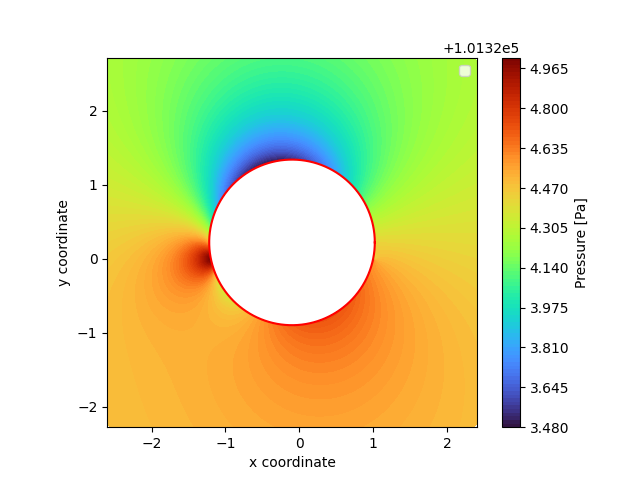
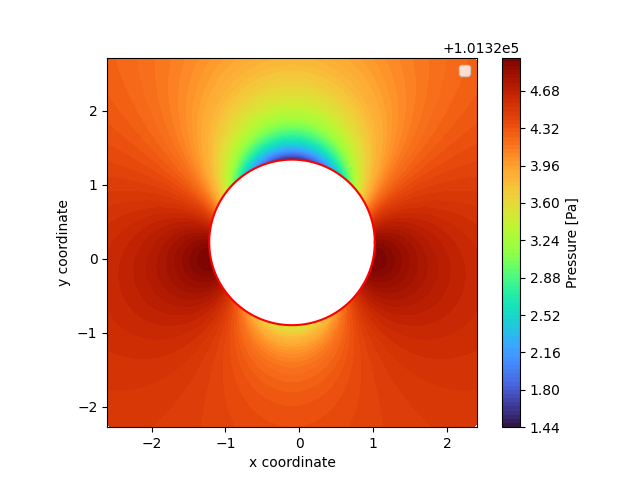
fixe bug in generating cylinder pressure plot

diff --git a/python/project 1/premade_figures.py b/python/project 1/premade_figures.py
@@ -26,7 +26,7 @@ U = 1
 #plotter(plotter_function(1, a, correct_gamma), joukowski=True, draw_shape=True, fig_limit=0.3, fig_offset=[2.1, -0.2], contours=800, save=True, filename=f'e_zoomed_streamfunction_gamma-{correct_gamma}.png', label='Streamfunction', units='m^2/s')
 #endregion
 #region f)
-plotter(plotter_function(1, a, correct_gamma, function='pressure'), joukowski=True, draw_shape=True, fig_limit=2.5, contours=100, colourmap='turbo', fill=True, save=True, filename='f_Cylinder_pressure.png', label='Pressure', units='Pa')
+plotter(plotter_function(1, a, correct_gamma, function='jpressure'), joukowski=True, draw_shape=True, fig_limit=2.5, contours=100, colourmap='turbo', fill=True, save=True, filename='f_Cylinder_pressure.png', label='Pressure', units='Pa')
 plotter(plotter_function(1, a, correct_gamma, function='pressure'), joukowski=False, draw_shape=True, fig_limit=2.5, contours=100, colourmap='turbo', fill=True, save=True, filename='f_Wing_pressure.png', label='Pressure', units='Pa')
 #plotter(plotter_function(1, a, correct_gamma, function='jvelocity'), joukowski=True, draw_shape=True, fig_limit=2.5, contours=100, colourmap='turbo', fill=True, save=True, filename='f_joukowski_velocity.png', label='Velocity', units='m/s')
 #endregion

diff --git a/python/project 1/main.py b/python/project 1/main.py
@@ -94,6 +94,8 @@ def plotter_function(U, a, gamma, function = 'stream'):
     if function == 'velocity_potential':
         return lambda z: complex_potential(z, U, a, gamma)[0]
     if function == 'pressure':
+        return lambda z: pressure(z, U, a, gamma, joukowski=False)
+    if function == 'jpressure':
         return lambda z: pressure(z, U, a, gamma)
     if function == 'velocity':
         return lambda z: np.abs(velocity(z, U, a, gamma))
